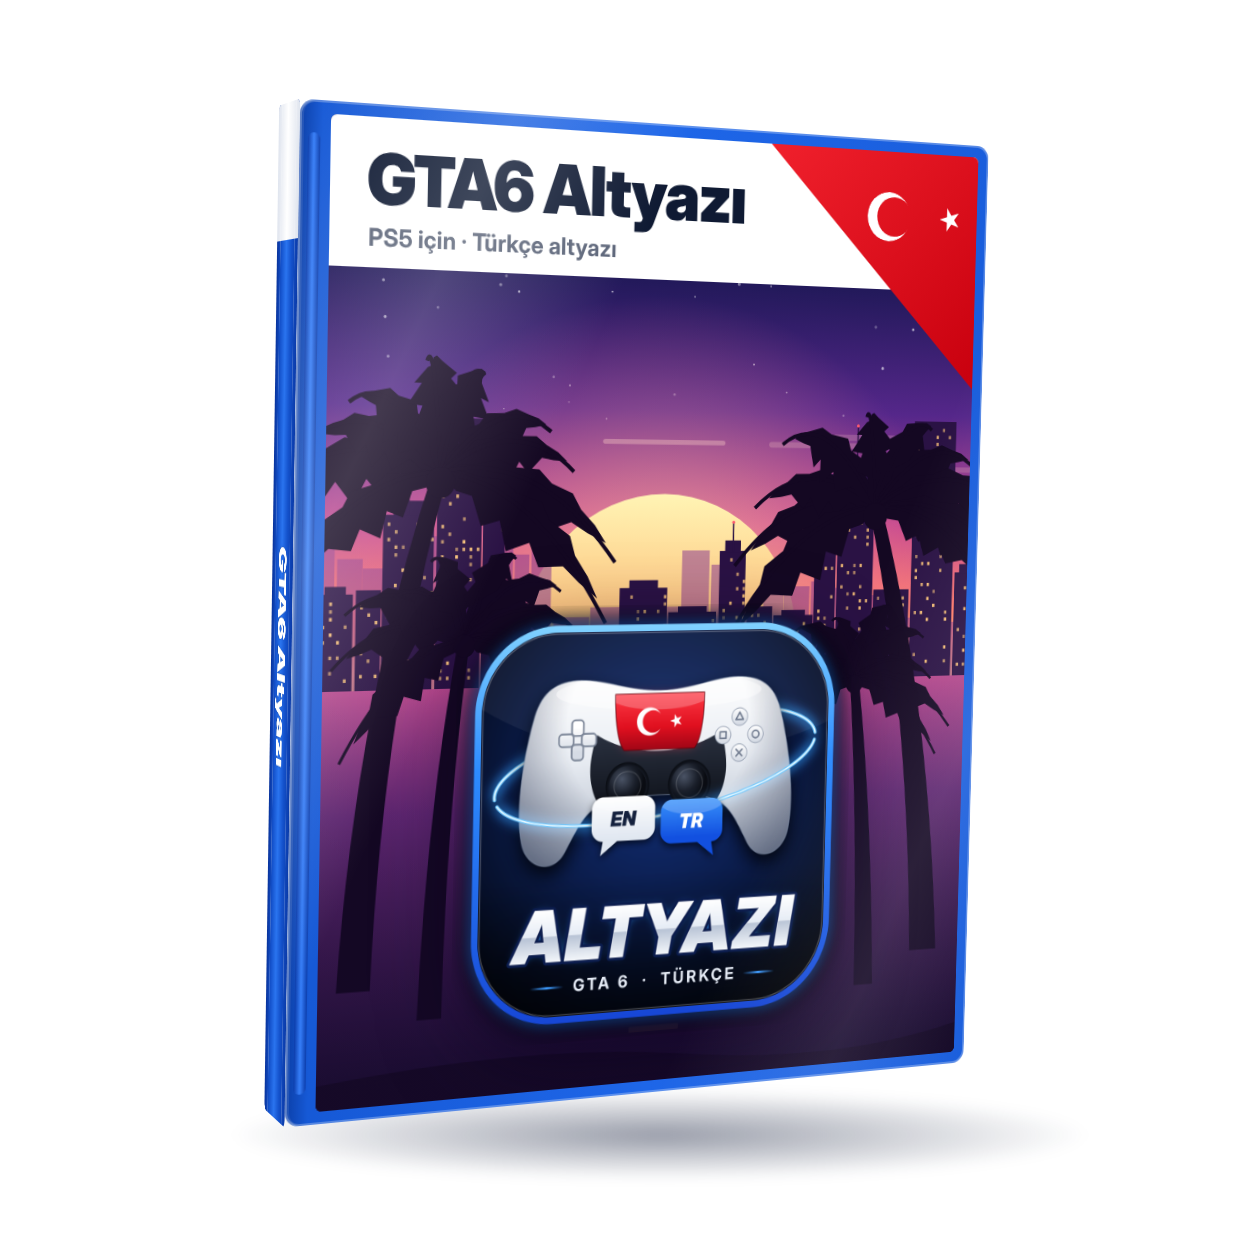
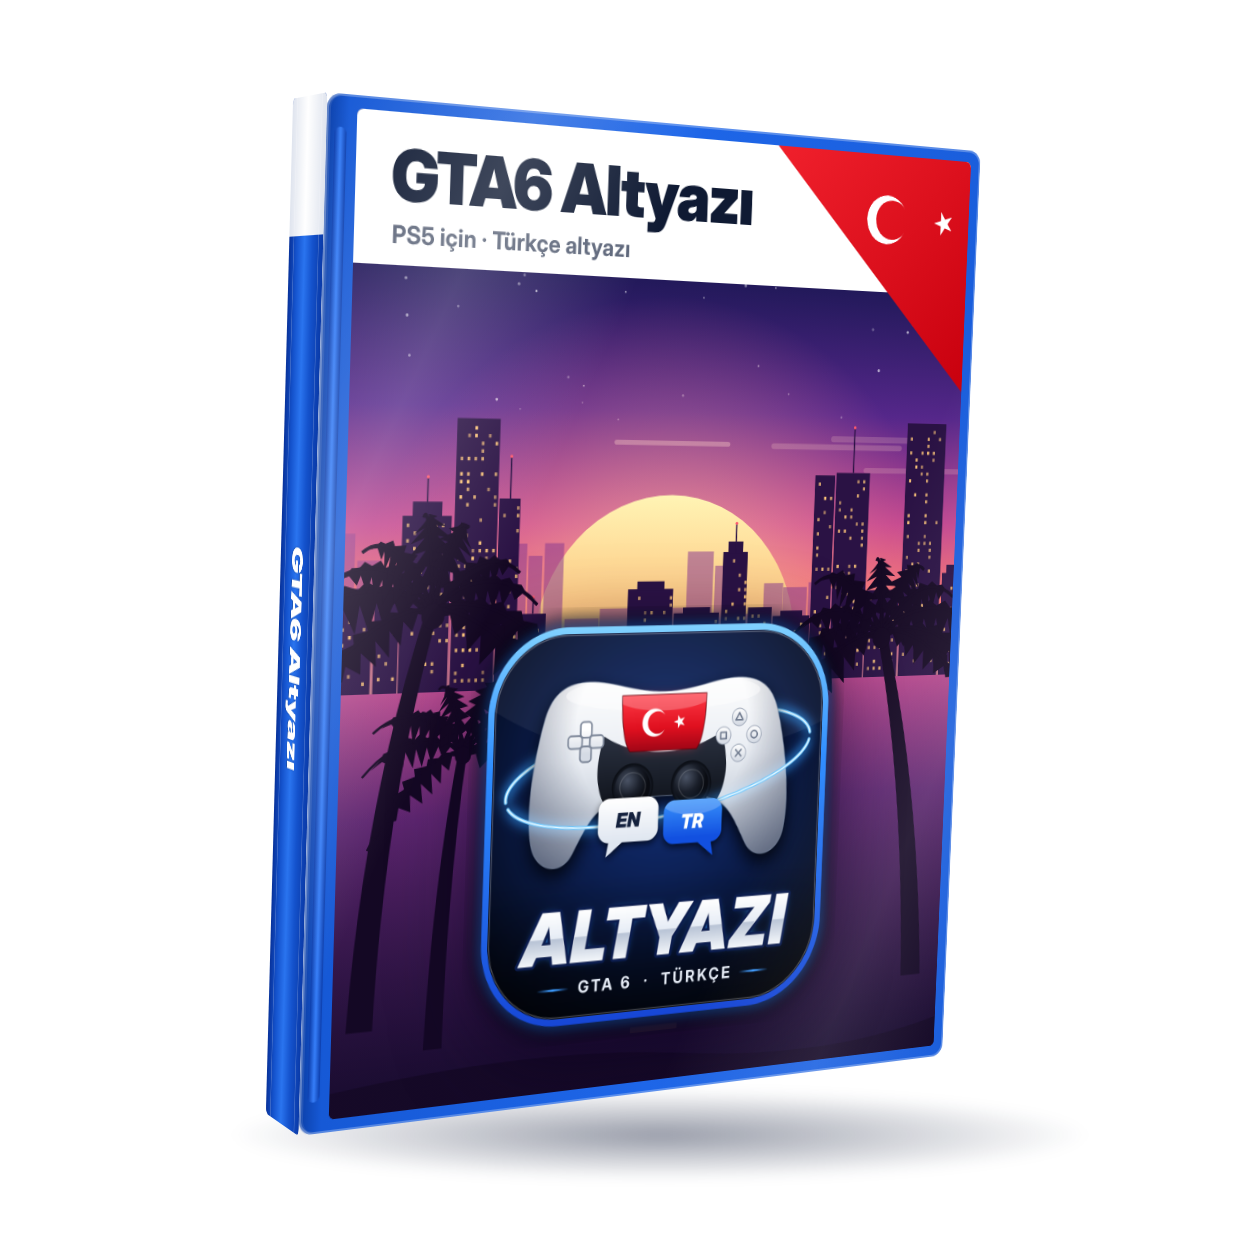
Tanıtım görselleri (ara kayıt)
Claude-Session: https://claude.ai/code/session_01Vsk1KccPrUYCuPzBtpR9u6

Changed region(s): [[0.1857, 0.0619, 0.8048, 0.8976], [0.681, 0.1548, 0.7119, 0.2476], [0.4952, 0.3714, 0.5262, 0.4024]]

diff --git a/tools/tanitim_gorsel/kutu.html b/tools/tanitim_gorsel/kutu.html
@@ -8,17 +8,17 @@
     background: radial-gradient(closest-side, rgba(10,20,50,.42), rgba(10,20,50,0)); filter: blur(6px); }
   .sahne { position: absolute; inset: 0; perspective: 2600px; perspective-origin: 50% 42%; }
   .kutu { position: absolute; left: 270px; top: 130px; width: 740px; height: 960px; transform-style: preserve-3d;
-    transform: rotateY(24deg) rotateX(-3deg); }
+    transform: rotateY(30deg) rotateX(-4deg); }
   .yuz { position: absolute; backface-visibility: hidden; }
-  .on { inset: 0; transform: translateZ(34px); border-radius: 14px;
+  .on { inset: 0; transform: translateZ(40px); border-radius: 14px;
     background: linear-gradient(90deg, #0b3fa8 0, #1659d6 3%, #1e66e8 50%, #1a5edc 100%); }
-  .sirt { top: 0; left: 336px; width: 68px; height: 960px; transform: rotateY(-90deg) translateZ(370px);
+  .sirt { top: 0; left: 330px; width: 80px; height: 960px; transform: rotateY(-90deg) translateZ(370px);
     background: linear-gradient(90deg, #08329a 0%, #1452cc 22%, #2a74ef 46%, #1452cc 70%, #0a3aa8 100%); border-radius: 6px; overflow: hidden; }
   .sirt .bant { position: absolute; left: 0; right: 0; top: 0; height: 128px; background: linear-gradient(90deg,#dfe4ee,#ffffff 46%,#dfe4ee); }
   .sirt .yazi { position: absolute; left: 50%; top: 520px; transform: translate(-50%,-50%) rotate(90deg); white-space: nowrap;
     color: #fff; font-weight: 900; font-size: 34px; letter-spacing: -0.4px; text-shadow: 0 1px 2px rgba(0,0,0,.3); }
   .sirt .cizgi { position: absolute; top: 0; bottom: 0; width: 2px; background: rgba(255,255,255,.18); }
-  .ustyuz { left: 0; top: 446px; width: 740px; height: 68px; transform: rotateX(90deg) translateZ(480px);
+  .ustyuz { left: 0; top: 440px; width: 740px; height: 80px; transform: rotateX(90deg) translateZ(480px);
     background: linear-gradient(180deg, #2c78f2, #1a5edc); border-radius: 6px; }
   /* kapak */
   .kapak { position: absolute; left: 30px; top: 12px; right: 12px; bottom: 12px; border-radius: 6px; overflow: hidden; background: #22195a; }
@@ -55,7 +55,7 @@ const W = 698, H = 936;
 const U = 240;
 document.getElementById("kapak").innerHTML = `
   <div class="sanat">${sehir(W, H - 140, { tohum: 5, gunesX: 0.5, gunesR: 150, ufuk: 0.5, kum: 0.97,
-      palmiyeler: [[0.05, 0.86, 0.62, 0.16], [0.16, 0.9, 0.46, 0.08], [0.94, 0.86, 0.58, -0.15], [0.84, 0.9, 0.4, -0.06]] })}</div>
+      palmiyeler: [[0.04, 0.9, 0.5, 0.16], [0.15, 0.93, 0.36, 0.08], [0.95, 0.9, 0.46, -0.15]] })}</div>
   <div class="karartma"></div>
   <div class="bant"></div>
   <div class="ad">GTA6 Altyazı</div>

diff --git a/tools/tanitim_gorsel/ortak.js b/tools/tanitim_gorsel/ortak.js
@@ -34,7 +34,7 @@ function palmiye(x, y, H, egim, renk, r) {
     const ex = tx + Math.cos(a) * L, ey = ty + Math.sin(a) * L + L * 0.42;
     const mx = tx + Math.cos(a) * L * 0.55, my = ty + Math.sin(a) * L * 0.55 - L * 0.16;
     // orta damar boyunca yaprakçıklar
-    const n = 11;
+    const n = 17;
     let pts1 = [], pts2 = [];
     for (let i = 0; i <= n; i++) {
       const t = i / n;
@@ -44,7 +44,7 @@ function palmiye(x, y, H, egim, renk, r) {
       const dy = 2 * (1 - t) * (my - ty) + 2 * t * (ey - my);
       const d = Math.hypot(dx, dy) || 1;
       const nx = -dy / d, ny = dx / d;
-      const g = L * 0.16 * Math.sin(Math.PI * Math.min(1, t * 1.15)) * (i % 2 ? 1 : 0.55);
+      const g = L * 0.15 * Math.sin(Math.PI * Math.min(1, t * 1.12)) * (i % 2 ? 1 : 0.3);
       pts1.push([px + nx * g + L * 0.03 * t, py + ny * g + g * 0.6]);
       pts2.push([px - nx * g + L * 0.03 * t, py - ny * g + g * 0.6]);
     }
